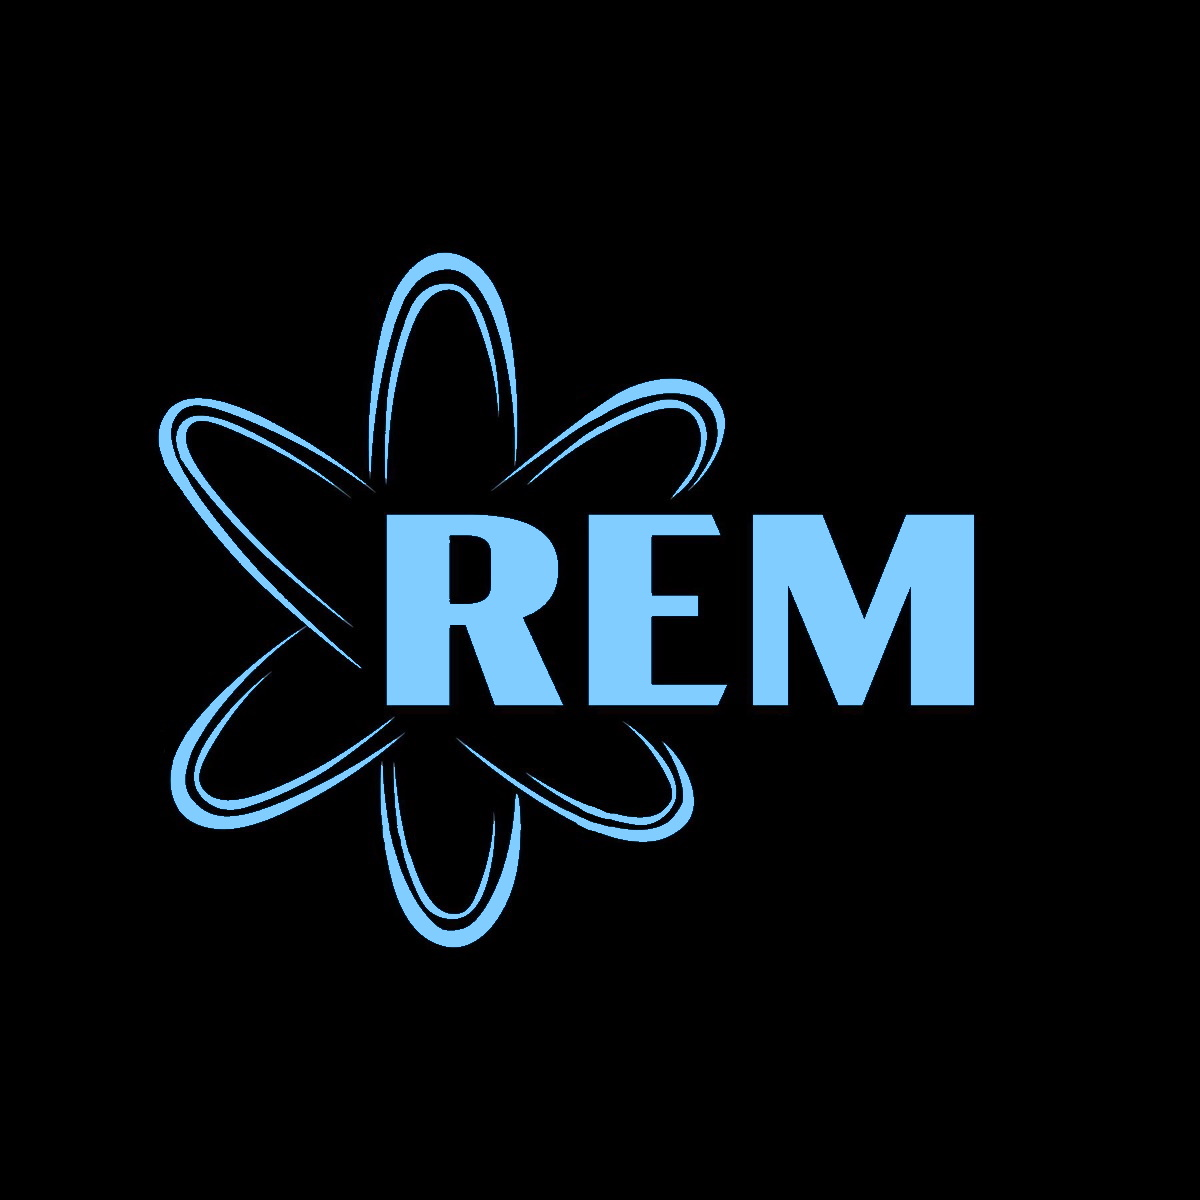
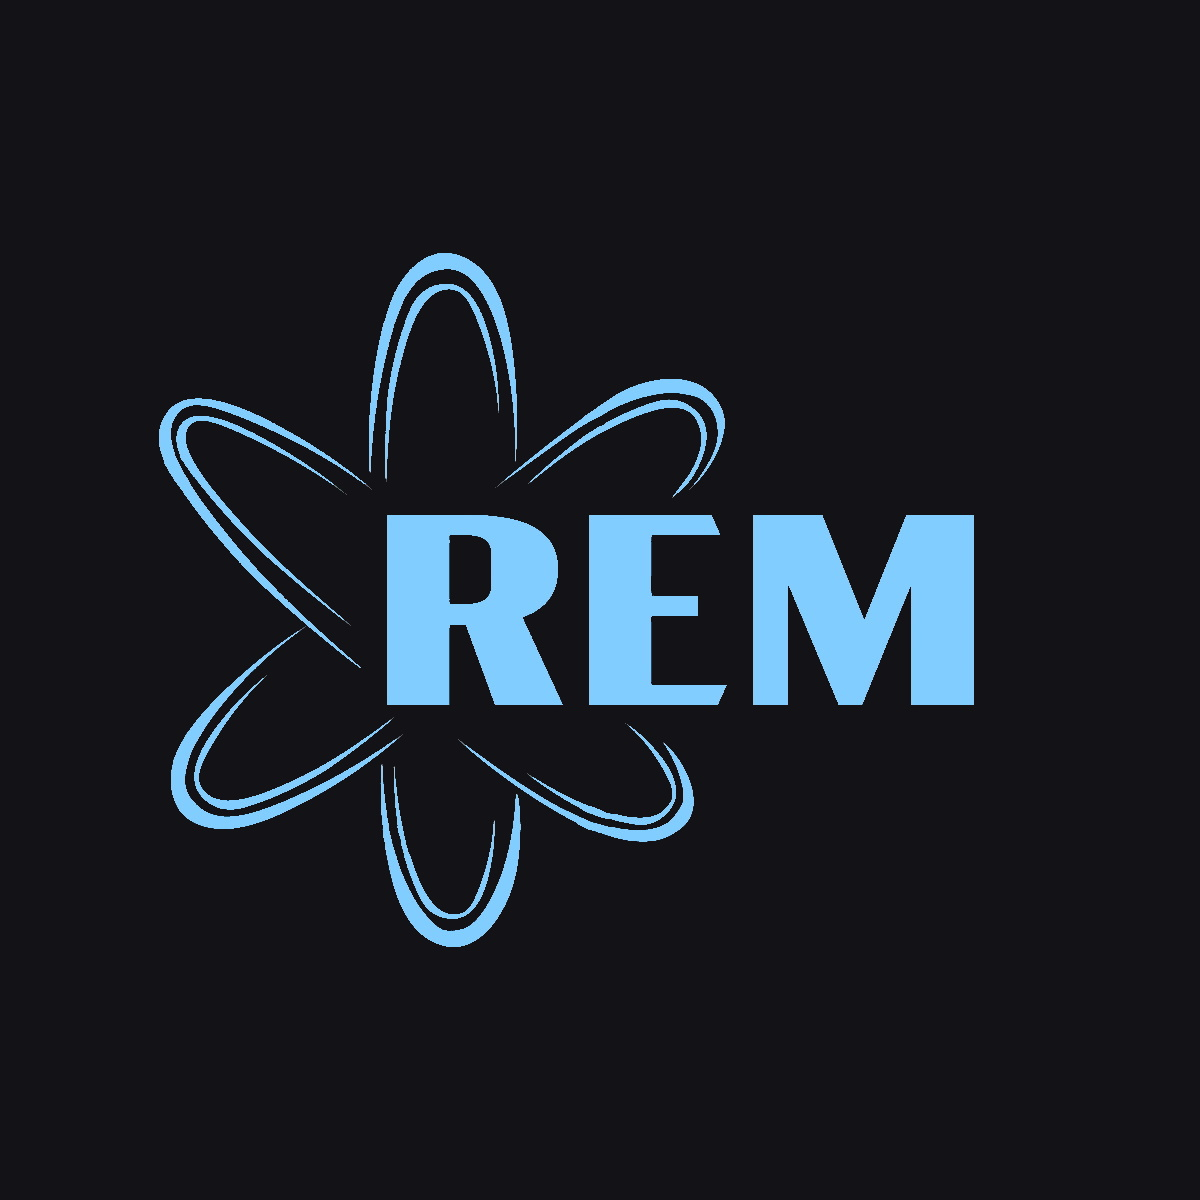
Update Format

diff --git a/Product.html b/Product.html
@@ -1,58 +1,61 @@
+<!DOCTYPE html>
 <html>
     <head>
         <title>Radical Energy & Materials</title>
         <link rel="icon" href="LogoRounded.png"/>
+        <link rel="stylesheet" href="style.css">
+        <script defer src="app.js"></script>
     </head>
-    <header style="background-color: #131316;width:101%">
-        <div id="top" class="header" style="background:#131316" border="0">
-            <img onClick="parent.location='index.html'" style="cursor:pointer" src="Gif/GifFinished.gif" height="95%" align="left">
+    <header style="z-index:2;background-color:#131316">
+        <div id="top" class="header" border="0">
+            <img onClick="parent.location='index.html'" style="cursor:pointer" src="Gif/GifFinished.gif" width="130px" align="left">
             <span class="title"><p><i><b>Radical Energy & Materials&emsp;</b></i></p></span>
         </div>
         <div style="clear:both;"></div>
-        <div class="infoContainer" style="background:#81cdff" align="right">
-            <table height="15%">
+        <div class="infoContainer" style="position:relative;background:#81cdff;" align="right">
+            <table height="15%" style="position:relative;top:-7px;border-spacing:20px 0px;">
                 <td>
-                    <p onClick="parent.location='Directed Page.html'" style="cursor:pointer;position:relative;font-size:25;"><b>About Us&emsp;</b></p>
+                    <p class="link" onClick="parent.location='Directed Page.html'"><b>About Us&emsp;</b></p>
+                    <div class="underbar"></div> 
                 </td>
                 <td>
-                    <p onClick="parent.location='Product.html'" style="cursor:pointer;position:relative;font-size:25;"><b>Products&emsp;</b></p>
+                    <p class="link" onClick="parent.location='Product.html'"><b>Products&emsp;</b></p>
+                    <div class="underbar"></div> 
                 </td>
                 <td>
-                    <p onClick="parent.location='Contact.html'" style="cursor:pointer;position:relative;font-size:25;"><b>Contact Us&emsp;</b></p>
+                    <p class="linkcont" onClick="parent.location='Contact.html'"><b>Contact Us&emsp;</b></p>
+                    <div class="underbar"></div> 
                 </td>
-            </table>         
+                <td>
+                    <p>&emsp;&emsp;</p>
+                </td>
+            </table>        
         </div>
     </header>
-    <body style="background-color:silver">
-        <div class="row">
-            <div class="columnleft">
-            </div>
-            <div class="columnmid" align="left">
-                <h1>&emsp;</h1>
-                <h1>&emsp;Our Products</h1>
-                <br><h2>&emsp;&emsp;Placeholder 1</h2>
-                <img src=".jpg" style="border:4px solid black;margin-left:10%">
-                <br><h2>&emsp;&emsp;Placeholder 2</h2>
-                <img src=".jpg" style="border:4px solid black;margin-left:10%">
+    <body>
+        <div style="margin:8%;">
+            <h1>&emsp;</h1>
+            <h1>&emsp;Our Products</h1>
+            <br><h2>&emsp;&emsp;Placeholder 1</h2>
+            <img src=".jpg" style="border:4px solid black;margin-left:10%">
+            <br><h2>&emsp;&emsp;Placeholder 2</h2>
+            <img src=".jpg" style="border:4px solid black;margin-left:10%">
+            <br>
+            <form action="https://formspree.io/f/xrgdekvj" method="POST">
+                <h2 style="margin-left:2%;margin-bottom:-0.0%"><b>Preorder Now!</b></h2> 
                 <br>
-                <form action="https://formspree.io/f/xrgdekvj" method="POST">
-                    <h2 style="margin-left:2%;margin-bottom:-0.0%"><b>Preorder Now!</b></h2> 
-                    <br>
-                    <label style='margin-left:3%'>
-                        Your email:
-                    </label>
-                    <br>
-                    <input type="email" style='margin-left:3%' name="email">
-                    <br>
-                    <select name="os0" style="margin-left:3%"> <option value="Select Type">-- Select Type --</option> 
-                        <option value="Scanner">Scanner</option> 
-                        <option value="Cart">Cart</option> 
-                    </select> <br/>
-                    <button type="submit" style="margin-left:3%">Send</button>
-                </form>
-            </div>
-            <div class="columnright" align="right">
-            </div>
+                <label style='margin-left:3%'>
+                    Your email:
+                </label>
+                <br>
+                <input type="email" style='margin-left:3%' name="email">
+                <br>
+                <select name="os0" style="margin-left:3%"> <option value="Select Type">-- Select Type --</option> 
+                    <option value="Scanner">Scanner</option> 
+                    <option value="Cart">Cart</option> 
+                </select> <br/>
+                <button type="submit" style="margin-left:3%">Send</button>
+            </form>
         </div>
     </body>
     <footer>
@@ -61,92 +64,3 @@
         </div>
     </footer>
 </html>
-
-<style>
-html
-{
-    overflow-x:hidden;
-}
-header
-{
-    margin:-10px;
-    height:130px;
-    position:fixed;
-    top:0;
-    width:100%;
-    margin-bottom:0px;
-    z-index:1;
-    background-color: black;
-}
-span.title p
-{
-    float:right;
-    text-align:right;
-    margin-top:2.75%;
-    right:-70%;
-    font-size:+35;
-    color:#81cdff;
-}
-div.infoContainer
-{
-    position:relative;
-    border:3px solid black;
-    z-index:0;
-    margin:0px;
-    top:-10%;
-}
-.row
-{
-    position:relative;
-    z-index:0;
-    content: "";
-    display: table;
-    clear: both;
-    width:100%;
-    margin-top:85px;
-}
-.columnleft
-{
-    display:inline-block;
-    height:100%;
-    width:2.5%;
-}
-.columnmid
-{
-    display:inline-block;
-    width:94%;
-    border:2px solid black;
-    height:800px;
-    background:gray;
-    box-shadow: 0 0px 50px rgba(0,0,0,0.5);
-}
-.columnright
-{
-    display:inline-block;
-    height:100%;
-    width:2.5%;
-}
-.body
-{
-    margin-top:240px;
-}
-footer
-{
-    position:relative;
-    width:110%;
-    right:2px;
-    background:black;
-    margin:-10px;
-    margin-top:-2px;
-    height:60px;
-    overflow-x:hidden;
-    z-index:1;
-}
-footer div
-{
-    background:#81cdff;
-    height:15px;
-    border:3px solid black;
-    overflow-x:hidden;
-}
-</style>

diff --git a/Old Pages/Product - old.html b/Old Pages/Product - old.html
@@ -1,0 +1,152 @@
+<html>
+    <head>
+        <title>Radical Energy & Materials</title>
+        <link rel="icon" href="LogoRounded.png"/>
+    </head>
+    <header style="background-color: #131316;width:101%">
+        <div id="top" class="header" style="background:#131316" border="0">
+            <img onClick="parent.location='index.html'" style="cursor:pointer" src="Gif/GifFinished.gif" height="95%" align="left">
+            <span class="title"><p><i><b>Radical Energy & Materials&emsp;</b></i></p></span>
+        </div>
+        <div style="clear:both;"></div>
+        <div class="infoContainer" style="background:#81cdff" align="right">
+            <table height="15%">
+                <td>
+                    <p onClick="parent.location='Directed Page.html'" style="cursor:pointer;position:relative;font-size:25;"><b>About Us&emsp;</b></p>
+                </td>
+                <td>
+                    <p onClick="parent.location='Product.html'" style="cursor:pointer;position:relative;font-size:25;"><b>Products&emsp;</b></p>
+                </td>
+                <td>
+                    <p onClick="parent.location='Contact.html'" style="cursor:pointer;position:relative;font-size:25;"><b>Contact Us&emsp;</b></p>
+                </td>
+            </table>         
+        </div>
+    </header>
+    <body style="background-color:silver">
+        <div class="row">
+            <div class="columnleft">
+            </div>
+            <div class="columnmid" align="left">
+                <h1>&emsp;</h1>
+                <h1>&emsp;Our Products</h1>
+                <br><h2>&emsp;&emsp;Placeholder 1</h2>
+                <img src=".jpg" style="border:4px solid black;margin-left:10%">
+                <br><h2>&emsp;&emsp;Placeholder 2</h2>
+                <img src=".jpg" style="border:4px solid black;margin-left:10%">
+                <br>
+                <form action="https://formspree.io/f/xrgdekvj" method="POST">
+                    <h2 style="margin-left:2%;margin-bottom:-0.0%"><b>Preorder Now!</b></h2> 
+                    <br>
+                    <label style='margin-left:3%'>
+                        Your email:
+                    </label>
+                    <br>
+                    <input type="email" style='margin-left:3%' name="email">
+                    <br>
+                    <select name="os0" style="margin-left:3%"> <option value="Select Type">-- Select Type --</option> 
+                        <option value="Scanner">Scanner</option> 
+                        <option value="Cart">Cart</option> 
+                    </select> <br/>
+                    <button type="submit" style="margin-left:3%">Send</button>
+                </form>
+            </div>
+            <div class="columnright" align="right">
+            </div>
+        </div>
+    </body>
+    <footer>
+        <div>
+
+        </div>
+    </footer>
+</html>
+
+<style>
+html
+{
+    overflow-x:hidden;
+}
+header
+{
+    margin:-10px;
+    height:130px;
+    position:fixed;
+    top:0;
+    width:100%;
+    margin-bottom:0px;
+    z-index:1;
+    background-color: black;
+}
+span.title p
+{
+    float:right;
+    text-align:right;
+    margin-top:2.75%;
+    right:-70%;
+    font-size:+35;
+    color:#81cdff;
+}
+div.infoContainer
+{
+    position:relative;
+    border:3px solid black;
+    z-index:0;
+    margin:0px;
+    top:-10%;
+}
+.row
+{
+    position:relative;
+    z-index:0;
+    content: "";
+    display: table;
+    clear: both;
+    width:100%;
+    margin-top:85px;
+}
+.columnleft
+{
+    display:inline-block;
+    height:100%;
+    width:2.5%;
+}
+.columnmid
+{
+    display:inline-block;
+    width:94%;
+    border:2px solid black;
+    height:800px;
+    background:gray;
+    box-shadow: 0 0px 50px rgba(0,0,0,0.5);
+}
+.columnright
+{
+    display:inline-block;
+    height:100%;
+    width:2.5%;
+}
+.body
+{
+    margin-top:240px;
+}
+footer
+{
+    position:relative;
+    width:110%;
+    right:2px;
+    background:black;
+    margin:-10px;
+    margin-top:-2px;
+    height:60px;
+    overflow-x:hidden;
+    z-index:1;
+}
+footer div
+{
+    background:#81cdff;
+    height:15px;
+    border:3px solid black;
+    overflow-x:hidden;
+}
+</style>

diff --git a/template-new.html b/template-new.html
@@ -6,8 +6,8 @@
         <link rel="stylesheet" href="style.css">
         <script defer src="app.js"></script>
     </head>
-    <header style="z-index:2;">
-        <div id="top" class="header" style="background:black" border="0">
+    <header style="z-index:2;background-color:#131316">
+        <div id="top" class="header" border="0">
             <img onClick="parent.location='index.html'" style="cursor:pointer" src="Gif/GifFinished.gif" width="130px" align="left">
             <span class="title"><p><i><b>Radical Energy & Materials&emsp;</b></i></p></span>
         </div>
